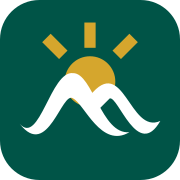
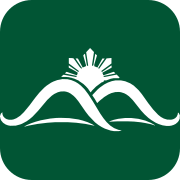
Fix public-launch metadata and polish visitor copy
Restore service-guide and civic-asset sitemap entries, use the public domain consistently, and remove duplicate route metadata. Export the approved artwork for social previews and Apple icons. Replace unavailable Facebook calls to action with working civic links and simplify public copy.

Validated production build, content and brand audits, lint (no errors), and metadata for 247 routes. Add a metadata regression gate to future builds.

diff --git a/src/pages/CivicBriefs.tsx b/src/pages/CivicBriefs.tsx
@@ -180,21 +180,18 @@ export default function CivicBriefs() {
 
       <Section className="bg-[#f5f8f2]">
         <div className="section-eyebrow">Follow</div>
-        <Heading level={2}>BetterMakati on Facebook</Heading>
+        <Heading level={2}>Follow city updates</Heading>
         <div className="mt-6 max-w-2xl rounded-2xl border border-primary-100 bg-white p-6">
           <Bell className="h-6 w-6 text-primary-700" />
-          <div className="mt-3 inline-flex rounded-full bg-secondary-50 px-3 py-1 text-xs font-bold text-secondary-900">
-            Page in progress
-          </div>
           <p className="mt-3 text-sm leading-relaxed text-gray-600">
-            New Civic Briefs and major BetterMakati updates will be posted there once the page is live.
+            Explore source-linked records in City Monitor, or subscribe to its RSS feed
+            for detected changes in monitored official sources. Each change still
+            needs review before it can be treated as a government action.
           </p>
-          <span
-            aria-disabled="true"
-            className="mt-5 inline-flex cursor-not-allowed items-center rounded-xl bg-primary-700 px-4 py-2 text-sm font-bold text-white opacity-60"
-          >
-            Follow BetterMakati on Facebook
-          </span>
+          <div className="mt-5 flex flex-wrap gap-4 text-sm font-bold text-primary-700">
+            <Link to="/city-monitor" className="underline underline-offset-4">Open City Monitor</Link>
+            <a href="/city-monitor.rss.xml" className="underline underline-offset-4">Source-change RSS feed</a>
+          </div>
         </div>
       </Section>
     </>

diff --git a/src/pages/About.tsx b/src/pages/About.tsx
@@ -79,19 +79,19 @@ export default function About() {
             {
               src: '/bettermakati-logo.svg',
               title: 'Primary',
-              note: 'Exact primary logo supplied by the project owner: green symbol, gold sun, gold Better and green Makati.',
+              note: 'Green hills, a gold sun and the BetterMakati name.',
               frame: 'bg-white',
             },
             {
               src: '/bettermakati-logo-reverse.svg',
               title: 'Reverse',
-              note: 'Exact all-white reverse logo supplied by the project owner.',
+              note: 'All-white artwork for dark backgrounds.',
               frame: 'bg-primary-900',
             },
             {
               src: '/bettermakati-symbol.svg',
               title: 'Compact symbol',
-              note: 'Exact symbol-only crop from the approved logo for compact and app-scale applications.',
+              note: 'The symbol on its own for compact spaces.',
               frame: 'bg-white',
             },
           ].map(item => (
@@ -124,7 +124,7 @@ export default function About() {
         <div className="mt-9 grid gap-4 lg:grid-cols-2">
           <div className="rounded-2xl border border-primary-100 bg-white p-6">
             <div className="section-eyebrow">Colour system</div>
-            <h3 className="text-xl font-extrabold text-gray-950">Official logo colours + warm white.</h3>
+            <h3 className="text-xl font-extrabold text-gray-950">Green, sun gold and warm white.</h3>
             <div className="mt-5 grid grid-cols-3 gap-3">
               {[
                 ['#036738', 'Deep green', 'bg-[#036738] text-white'],

diff --git a/src/pages/Home.tsx b/src/pages/Home.tsx
@@ -46,7 +46,7 @@ const quickServices = [
   },
   {
     label: 'Property & land use',
-    description: 'RPT, zoning and building permits',
+    description: 'Property tax, zoning and building permits',
     href: '/services/housing-land-use',
     icon: HomeIcon,
   },
@@ -156,7 +156,7 @@ const Home: React.FC = () => {
           <div className="section-eyebrow">Services</div>
           <div className="flex flex-col md:flex-row md:items-end md:justify-between gap-3 mb-7">
             <h2 className="text-3xl md:text-4xl font-extrabold tracking-tight text-gray-950">
-              Frequently used services
+              Common services
             </h2>
             <Link
               to="/services"
@@ -324,10 +324,10 @@ const Home: React.FC = () => {
               </span>
               <div>
                 <div className="text-xs font-bold uppercase tracking-[0.08em] text-primary-700">
-                  New comparison
+                  City comparison
                 </div>
                 <h2 className="mt-1 text-lg font-extrabold text-gray-950">
-                  See Makati beside the Philippines&apos; top cities
+                  Compare Makati with other Philippine cities
                 </h2>
                 <p className="mt-1 text-sm text-gray-600">
                   Compare 2024 GDP per person using the same PSA definition and

diff --git a/src/pages/Today.tsx b/src/pages/Today.tsx
@@ -285,14 +285,16 @@ export default function Today() {
         <div className="rounded-2xl border border-secondary-200 bg-secondary-50 p-6">
           <Bell className="h-5 w-5 text-secondary-800" />
           <h2 className="mt-3 text-xl font-extrabold text-gray-950">
-            Follow BetterMakati on Facebook
+            Keep up with Makati
           </h2>
-          <div className="mt-2 inline-flex rounded-full bg-white px-3 py-1 text-xs font-bold text-secondary-900">
-            Page in progress
-          </div>
           <p className="mt-3 max-w-3xl text-sm leading-relaxed text-gray-700">
-            Civic Briefs and major site updates will be posted there once the page is live.
+            Read Civic Briefs for a digest of city records, or explore the original
+            sources and updates in City Monitor.
           </p>
+          <div className="mt-4 flex flex-wrap gap-4 text-sm font-bold text-primary-800">
+            <Link to="/briefs" className="underline underline-offset-4">Read Civic Briefs</Link>
+            <Link to="/city-monitor" className="underline underline-offset-4">Explore City Monitor</Link>
+          </div>
         </div>
       </Section>
     </>

diff --git a/index.html b/index.html
@@ -3,7 +3,7 @@
   <head>
     <meta charset="UTF-8" />
     <link rel="icon" type="image/svg+xml" href="/bettermakati-icon.svg" />
-    <link rel="apple-touch-icon" href="/bettermakati-icon.svg" />
+    <link rel="apple-touch-icon" href="/apple-touch-icon.png" />
     
     <meta name="viewport" content="width=device-width, initial-scale=1.0" />
     <meta name="theme-color" content="#036738" />
@@ -15,7 +15,7 @@
     />
     <link rel="manifest" href="/site.webmanifest" />
     <meta property="og:url" content="https://bettermakati.org/" />
-    <meta property="og:image" content="https://bettermakati.org/og-image.svg" />
+    <meta property="og:image" content="https://bettermakati.org/og-image.png" />
     <link rel="canonical" href="https://bettermakati.org/" />
     <title>BetterMakati | Civic information and participation for Makati</title>
     <meta

diff --git a/src/components/SEO.tsx b/src/components/SEO.tsx
@@ -56,7 +56,7 @@ export default function SEO({
       : '';
   const fullImage = absoluteUrl(
     baseUrl,
-    image || import.meta.env.VITE_OG_IMAGE_URL || '/og-image.svg'
+    image || import.meta.env.VITE_OG_IMAGE_URL || '/og-image.png'
   );
   const twitterHandle = import.meta.env.VITE_TWITTER_HANDLE || '';
 
